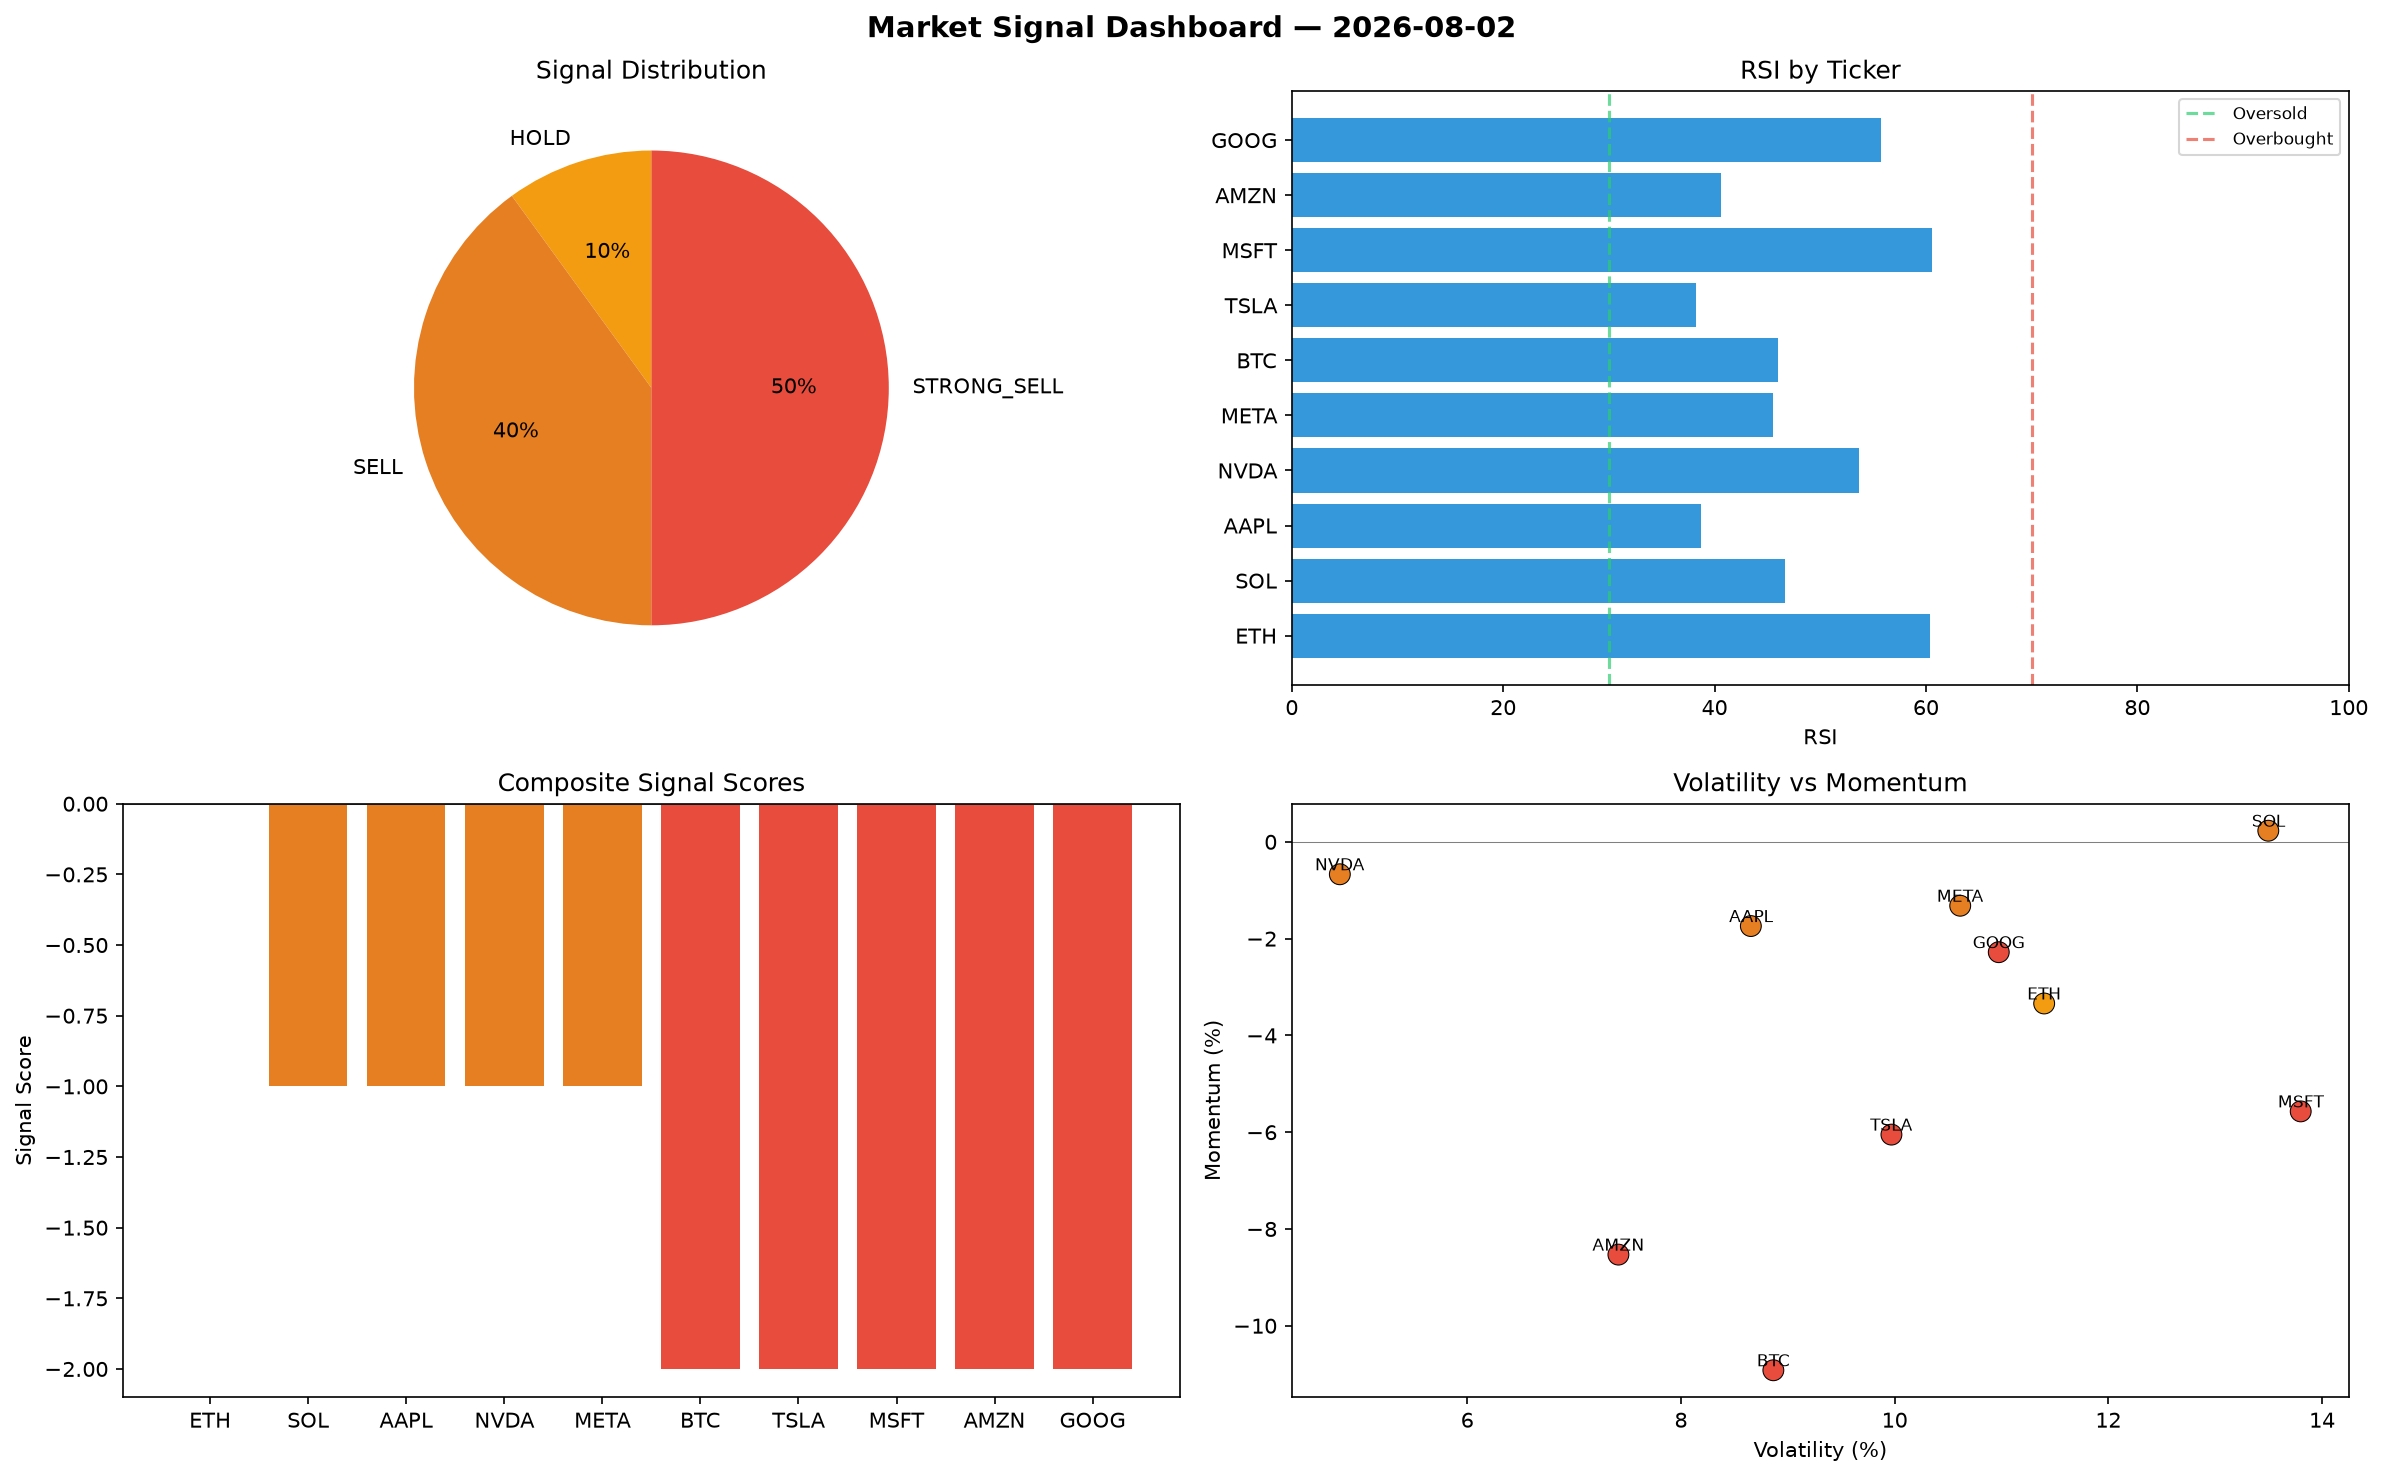
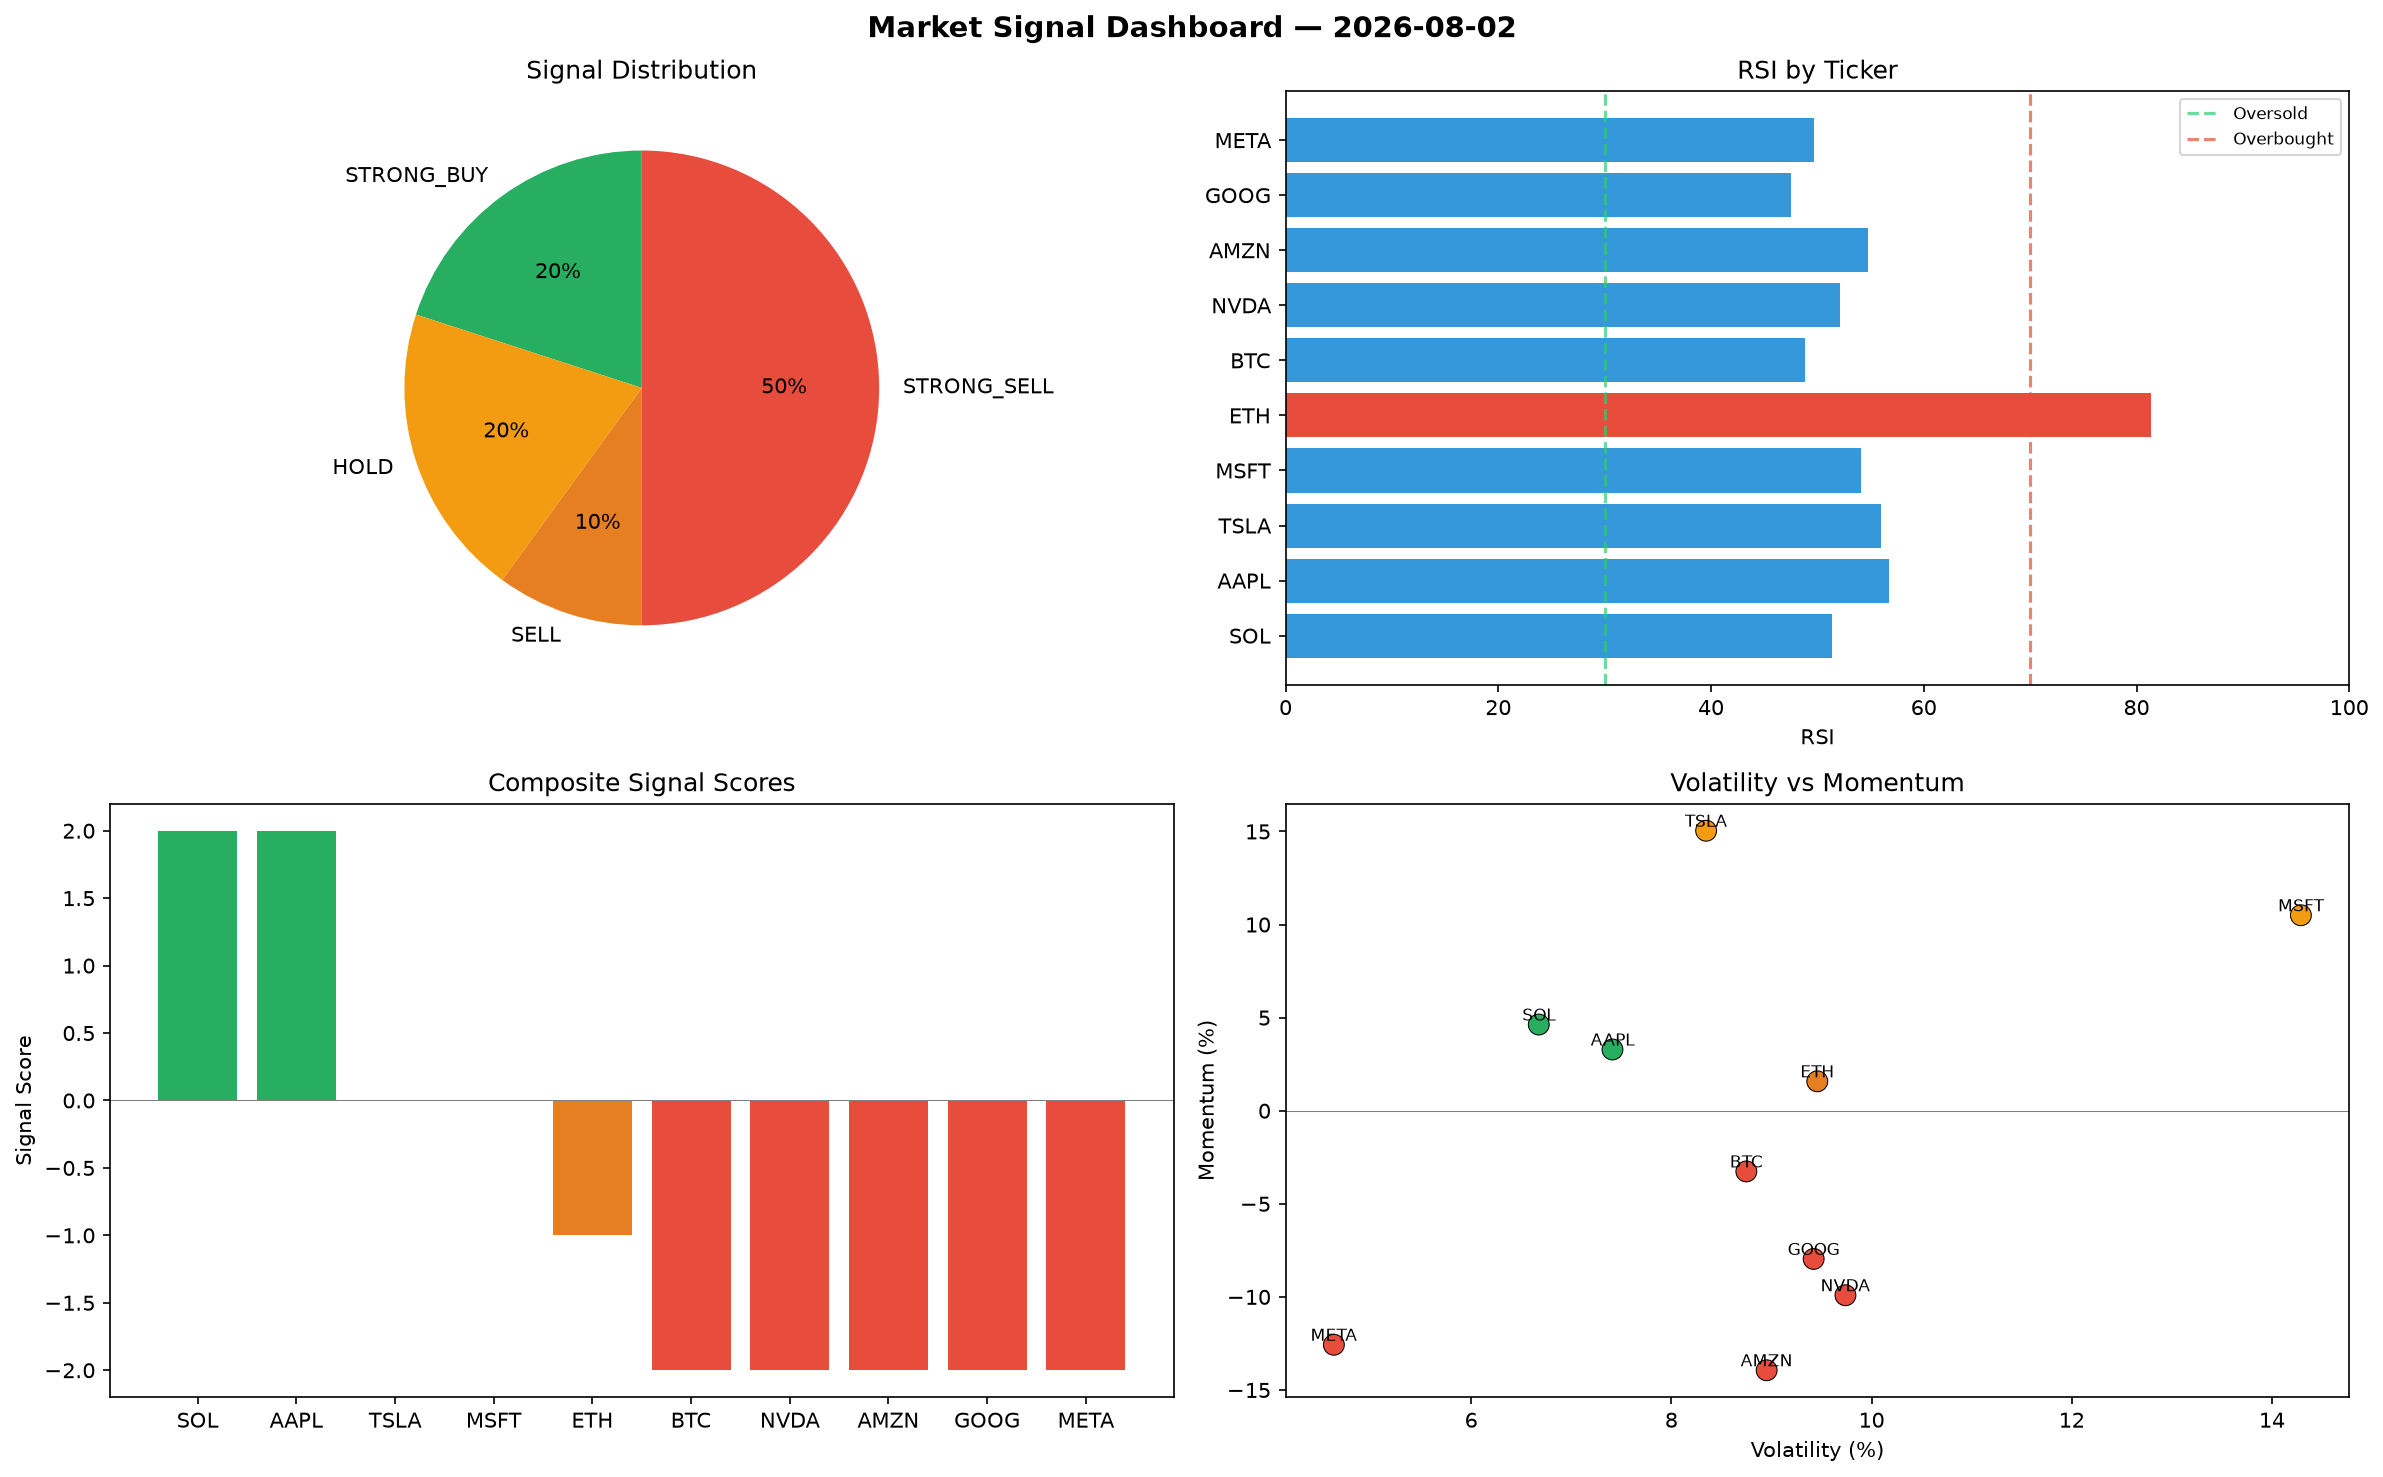
automated-bots: market signals 2026-08-02T10:12

diff --git a/logs/2026-08-02.md b/logs/2026-08-02.md
@@ -1,6 +1,6 @@
 # Market Signal Report — 2026-08-02
 
-**Run ID:** `df84994d77` | **Buy:** 0 | **Sell:** 9 | **Hold:** 1
+**Run ID:** `695a87ea4e` | **Buy:** 2 | **Sell:** 6 | **Hold:** 2
 
 ![Dashboard](2026-08-02_dashboard.png)
 
@@ -8,28 +8,28 @@
 
 | Ticker | Price | Signal | Score | RSI | Momentum | Confidence |
 |--------|-------|--------|-------|-----|----------|------------|
-| ETH | $1751.08 | **HOLD** | 0 | 60.4 | -0.0334 | 0.0 |
-| SOL | $4428.59 | **SELL** | -1 | 46.68 | 0.0023 | 0.25 |
-| AAPL | $155.98 | **SELL** | -1 | 38.75 | -0.0174 | 0.25 |
-| NVDA | $147.19 | **SELL** | -1 | 53.65 | -0.0067 | 0.25 |
-| META | $3195.59 | **SELL** | -1 | 45.51 | -0.0132 | 0.25 |
-| BTC | $2133.24 | **STRONG_SELL** | -2 | 45.96 | -0.1092 | 0.5 |
-| TSLA | $1402.56 | **STRONG_SELL** | -2 | 38.21 | -0.0605 | 0.5 |
-| MSFT | $2928.1 | **STRONG_SELL** | -2 | 60.57 | -0.0557 | 0.5 |
-| AMZN | $3734.65 | **STRONG_SELL** | -2 | 40.62 | -0.0853 | 0.5 |
-| GOOG | $963.51 | **STRONG_SELL** | -2 | 55.72 | -0.0228 | 0.5 |
+| SOL | $3989.84 | **STRONG_BUY** | 2 | 51.38 | 0.0463 | 0.5 |
+| AAPL | $4257.17 | **STRONG_BUY** | 2 | 56.75 | 0.0329 | 0.5 |
+| TSLA | $4011.5 | **HOLD** | 0 | 56.01 | 0.1504 | 0.0 |
+| MSFT | $4895.92 | **HOLD** | 0 | 54.07 | 0.105 | 0.0 |
+| ETH | $589.36 | **SELL** | -1 | 81.35 | 0.0158 | 0.25 |
+| BTC | $4548.61 | **STRONG_SELL** | -2 | 48.79 | -0.0326 | 0.5 |
+| NVDA | $423.32 | **STRONG_SELL** | -2 | 52.16 | -0.0991 | 0.5 |
+| AMZN | $1302.72 | **STRONG_SELL** | -2 | 54.75 | -0.1394 | 0.5 |
+| GOOG | $3115.35 | **STRONG_SELL** | -2 | 47.5 | -0.0796 | 0.5 |
+| META | $1941.1 | **STRONG_SELL** | -2 | 49.67 | -0.1257 | 0.5 |
 
 ## Delta vs Yesterday
 
 | Ticker | Today | Yesterday | Price Change | Signal Changed |
 |--------|-------|-----------|-------------|----------------|
-| ETH | HOLD | STRONG_BUY | 📉 -64.3% | ⚠ YES |
-| SOL | SELL | HOLD | 📈 24.93% | ⚠ YES |
-| AAPL | SELL | STRONG_BUY | 📉 -76.83% | ⚠ YES |
-| NVDA | SELL | STRONG_BUY | 📉 -82.12% | ⚠ YES |
-| META | SELL | HOLD | 📉 -32.9% | ⚠ YES |
-| BTC | STRONG_SELL | STRONG_SELL | 📈 1508.66% | — |
-| TSLA | STRONG_SELL | SELL | 📉 -41.08% | ⚠ YES |
-| MSFT | STRONG_SELL | HOLD | 📈 32.33% | ⚠ YES |
-| AMZN | STRONG_SELL | BUY | 📈 306.62% | ⚠ YES |
-| GOOG | STRONG_SELL | STRONG_BUY | 📉 -36.34% | ⚠ YES |
+| SOL | STRONG_BUY | HOLD | 📈 12.55% | ⚠ YES |
+| AAPL | STRONG_BUY | STRONG_BUY | 📈 532.29% | — |
+| TSLA | HOLD | SELL | 📈 68.52% | ⚠ YES |
+| MSFT | HOLD | HOLD | 📈 121.27% | — |
+| ETH | SELL | STRONG_BUY | 📉 -87.99% | ⚠ YES |
+| BTC | STRONG_SELL | STRONG_SELL | 📈 3330.07% | — |
+| NVDA | STRONG_SELL | STRONG_BUY | 📉 -48.57% | ⚠ YES |
+| AMZN | STRONG_SELL | BUY | 📈 41.84% | ⚠ YES |
+| GOOG | STRONG_SELL | STRONG_BUY | 📈 105.84% | ⚠ YES |
+| META | STRONG_SELL | HOLD | 📉 -59.24% | ⚠ YES |
